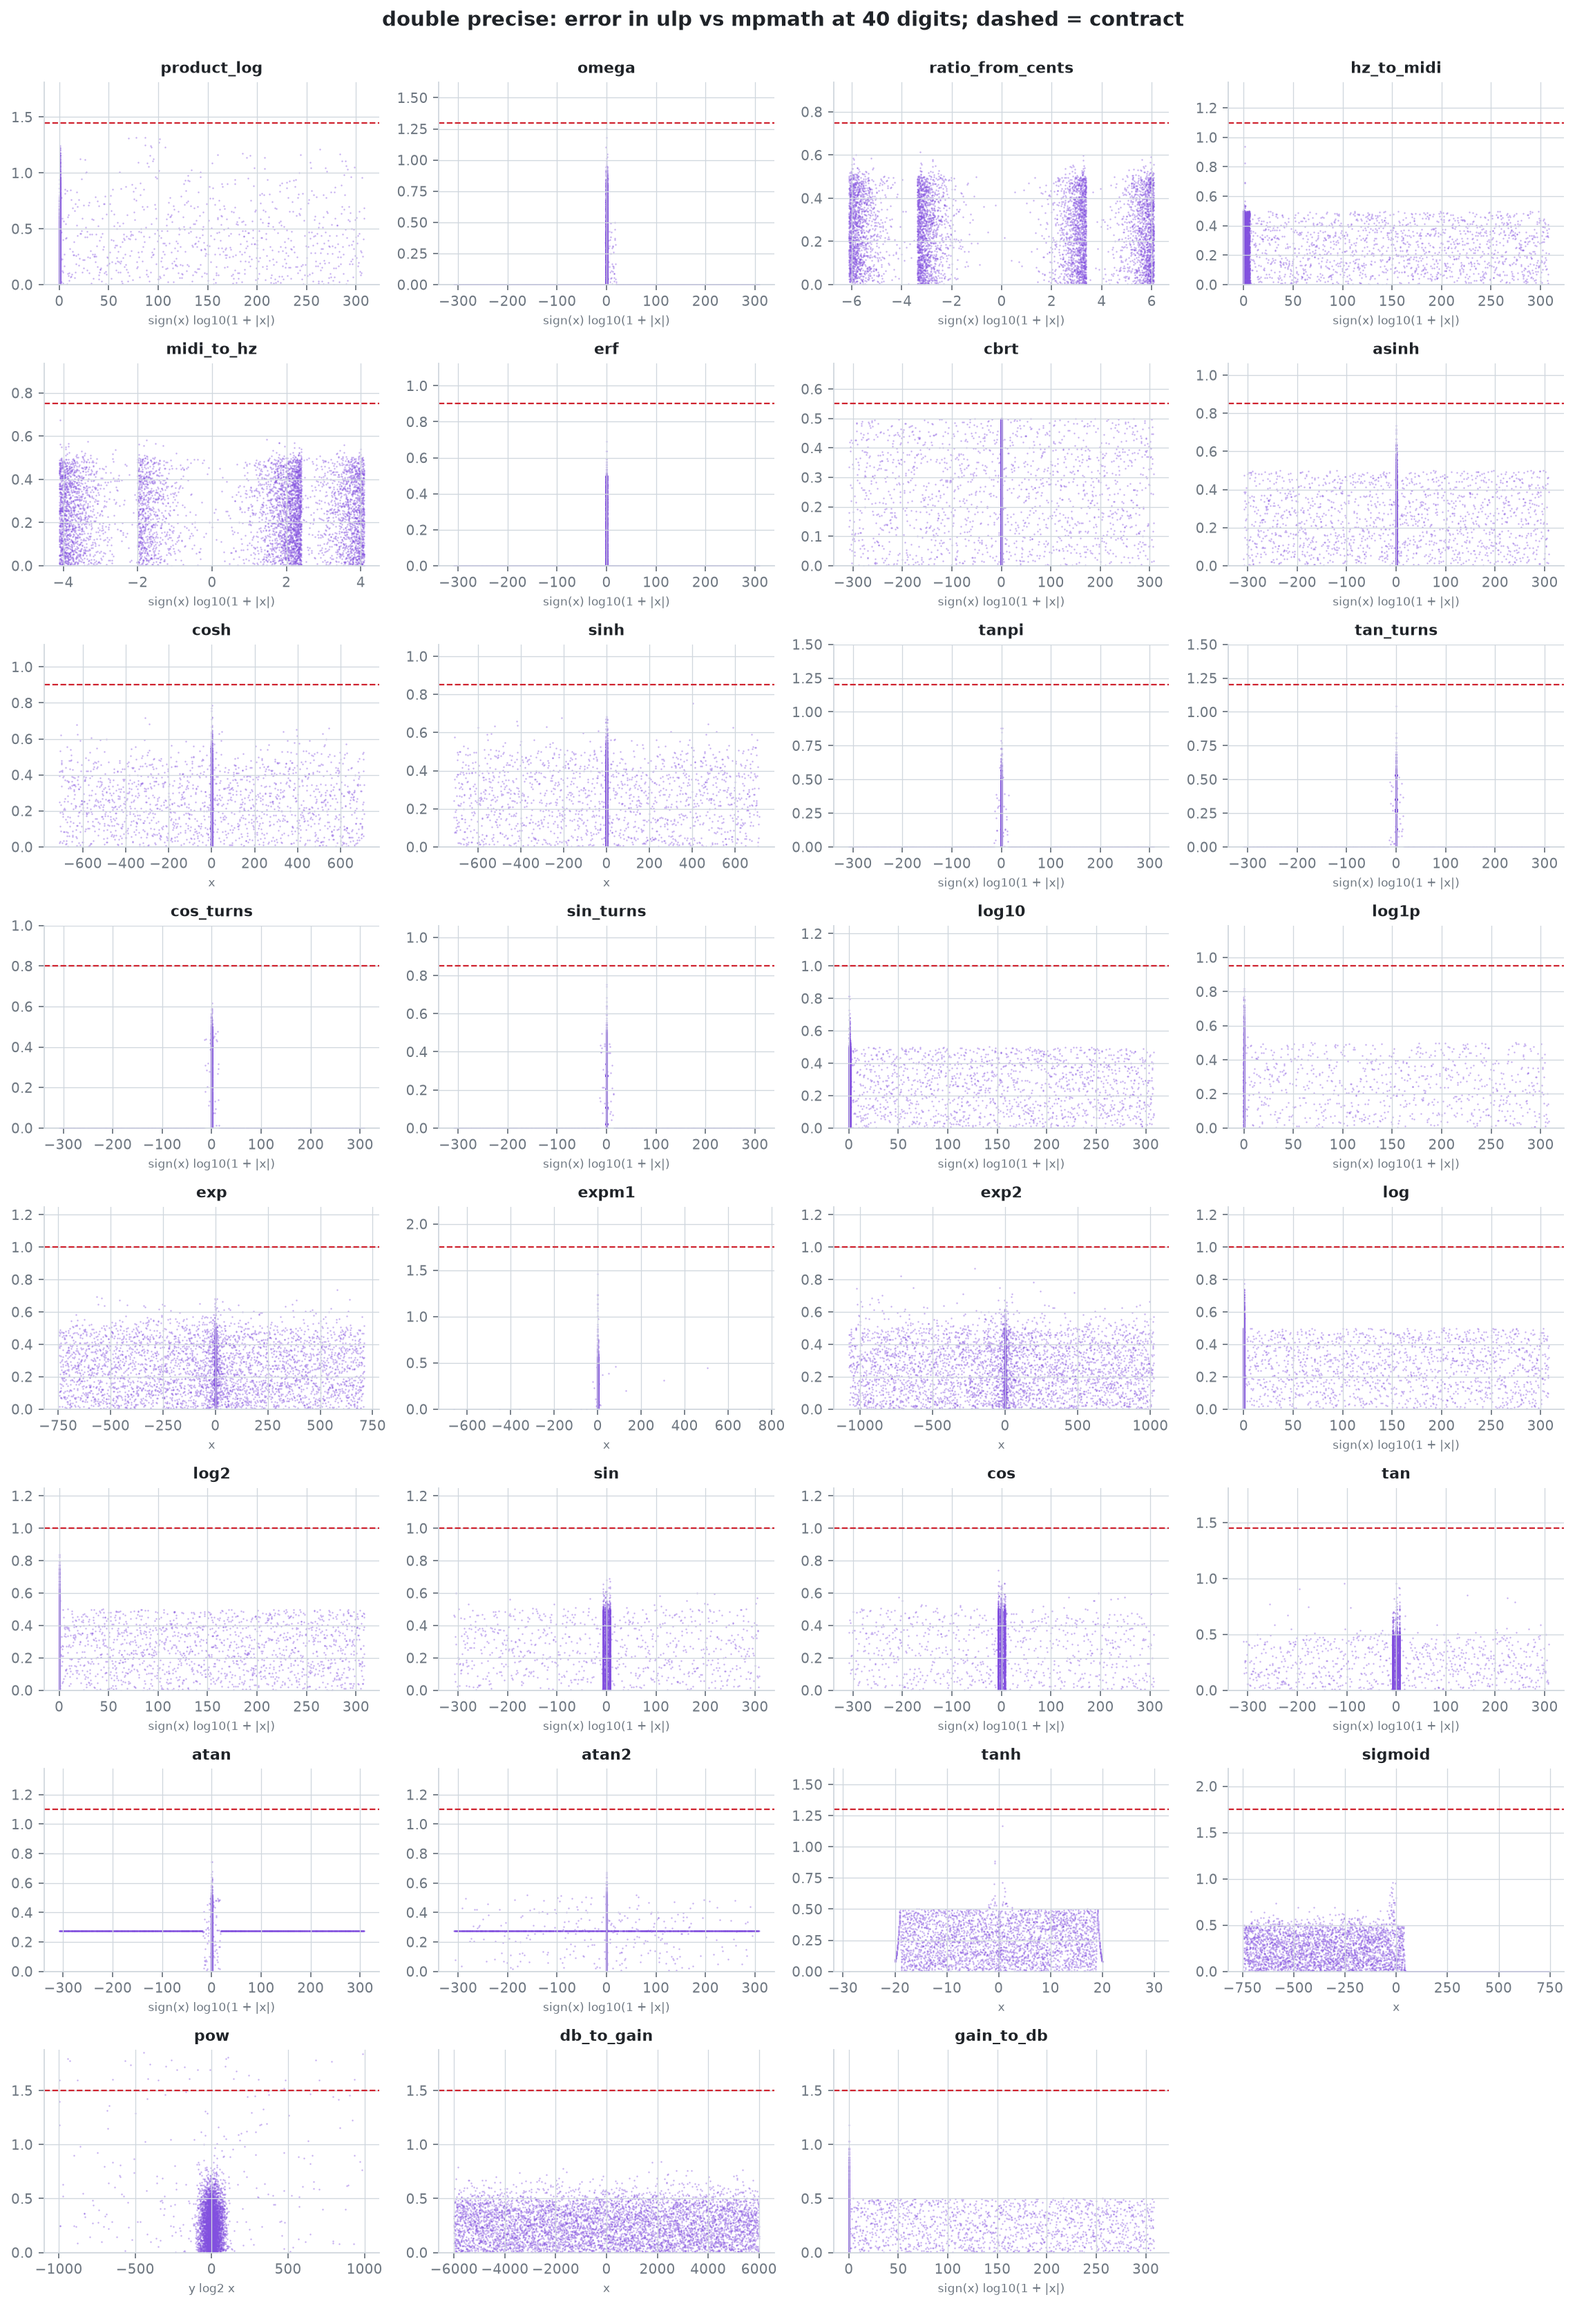
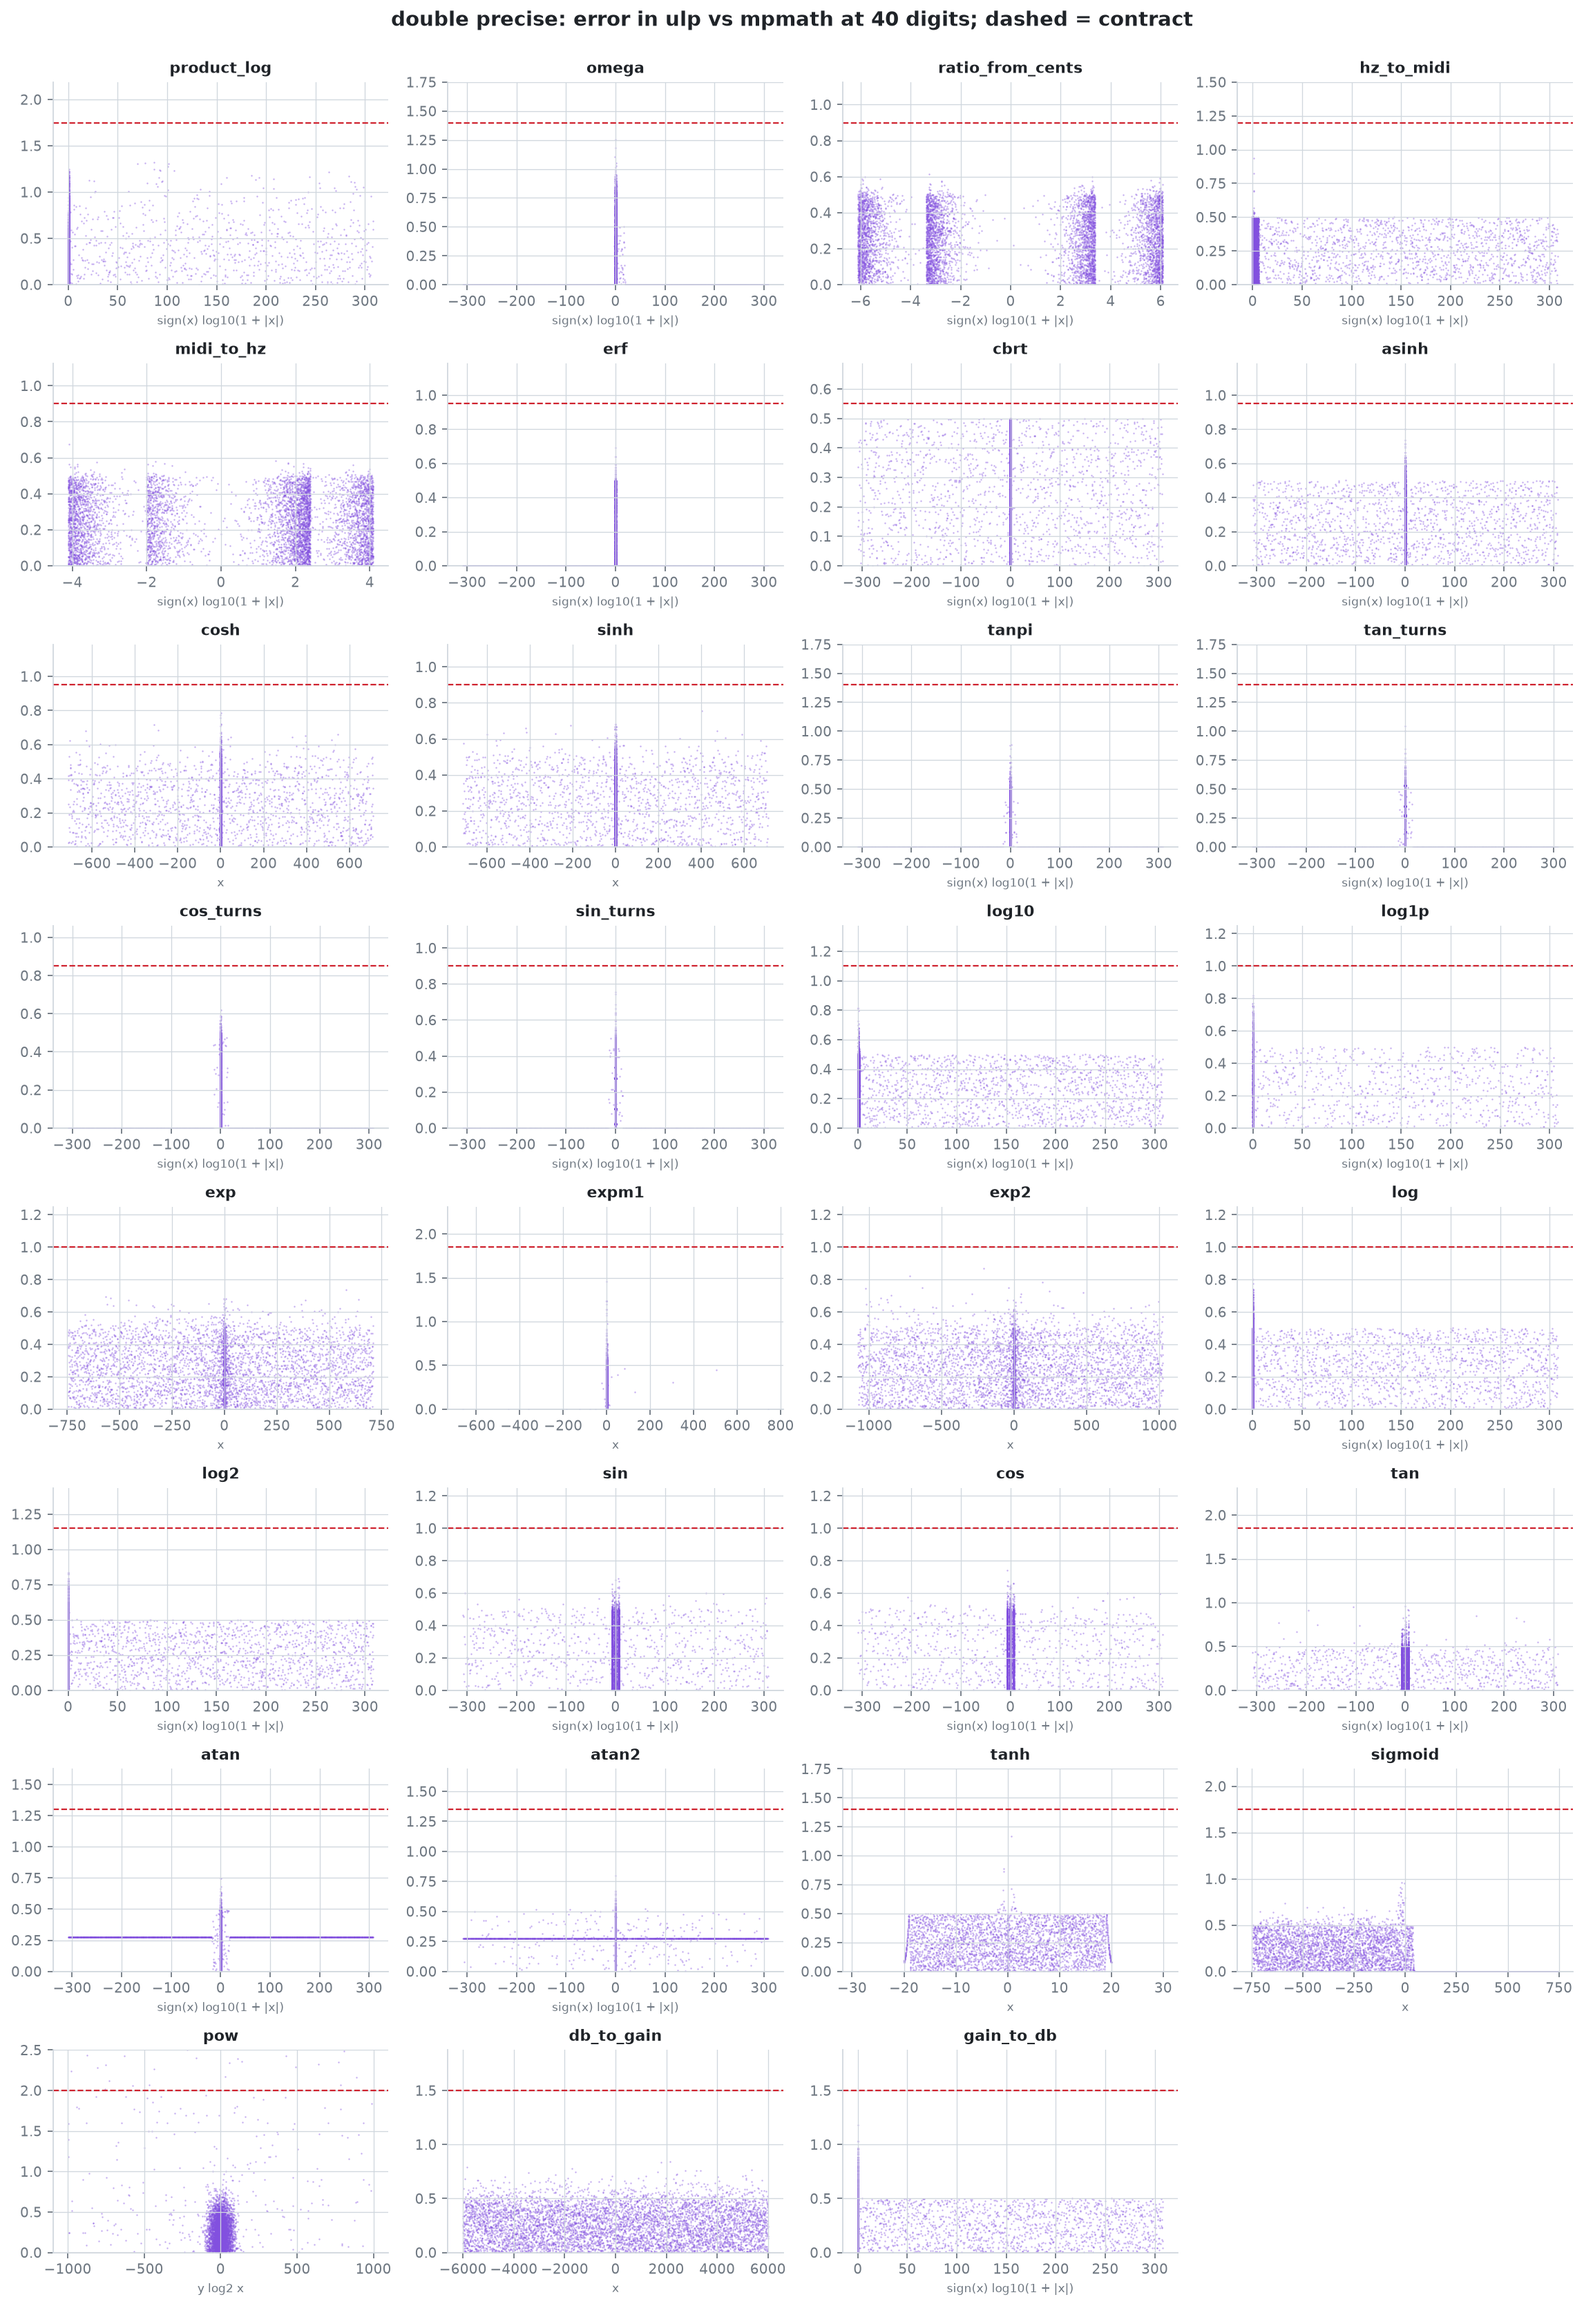
Set double contracts from a 4e8-sample quad-precision sweep

diff --git a/tools/oracle/oracle.py b/tools/oracle/oracle.py
@@ -124,8 +124,8 @@ UNARY = ["product_log", "omega", "ratio_from_cents", "hz_to_midi", "midi_to_hz",
 CONTRACTS = {
     "f32": {"product_log": 2.05, "omega": 1.65, "smoothing_coefficient": 2.0, "pole_from_cutoff": 2.0, "prewarp": 2.0, "ratio_from_cents": 0.85, "hz_to_midi": 1.25, "midi_to_hz": 1.4, "erf": 0.9, "cbrt": 0.55, "asinh": 0.9, "cosh": 0.9, "sinh": 0.85, "tanpi": 1.2, "tan_turns": 1.2, "cos_turns": 0.8, "sin_turns": 1.0, "log10": 1.4, "log1p": 1.0, "exp": 1.0, "expm1": 2.0, "exp2": 1.0, "log": 1.0, "log2": 1.5, "sin": 1.0, "cos": 1.0, "tan": 1.75, "atan": 1.0, "tanh": 1.35,
             "sigmoid": 2.0, "db_to_gain": 1.5, "gain_to_db": 1.5, "atan2": 1.0, "pow": 2.0},
-    "f64": {"product_log": 1.45, "omega": 1.3, "smoothing_coefficient": 2.0, "pole_from_cutoff": 2.0, "prewarp": 2.0, "ratio_from_cents": 0.75, "hz_to_midi": 1.1, "midi_to_hz": 0.75, "erf": 0.9, "cbrt": 0.55, "asinh": 0.85, "cosh": 0.9, "sinh": 0.85, "tanpi": 1.2, "tan_turns": 1.2, "cos_turns": 0.8, "sin_turns": 0.85, "log10": 1.0, "log1p": 0.95, "exp": 1.0, "expm1": 1.75, "exp2": 1.0, "log": 1.0, "log2": 1.0, "sin": 1.0, "cos": 1.0, "tan": 1.45, "atan": 1.1, "tanh": 1.3,
-            "sigmoid": 1.75, "db_to_gain": 1.5, "gain_to_db": 1.5, "atan2": 1.1, "pow": 1.5},
+    "f64": {"product_log": 1.75, "omega": 1.4, "smoothing_coefficient": 2.0, "pole_from_cutoff": 2.0, "prewarp": 2.0, "ratio_from_cents": 0.9, "hz_to_midi": 1.2, "midi_to_hz": 0.9, "erf": 0.95, "cbrt": 0.55, "asinh": 0.95, "cosh": 0.95, "sinh": 0.9, "tanpi": 1.4, "tan_turns": 1.4, "cos_turns": 0.85, "sin_turns": 0.9, "log10": 1.1, "log1p": 1.0, "exp": 1.0, "expm1": 1.85, "exp2": 1.0, "log": 1.0, "log2": 1.15, "sin": 1.0, "cos": 1.0, "tan": 1.85, "atan": 1.3, "tanh": 1.4,
+            "sigmoid": 1.75, "db_to_gain": 1.5, "gain_to_db": 1.5, "atan2": 1.35, "pow": 2.0},
     "fast": {name: 2.0 ** -16 for name in ["product_log", "omega", "tanpi", "tan_turns", "cos_turns", "sin_turns", "exp", "exp2", "log", "log2", "sin", "cos", "tan", "atan", "tanh", "sigmoid",
                                            "db_to_gain", "gain_to_db", "atan2", "pow"]},
 }

diff --git a/README.md b/README.md
@@ -55,27 +55,27 @@ target_link_libraries(your_target PRIVATE wray::wray)
 
 ## Accuracy contracts
 
-Measured maximum error in ulp. These are measured bounds, not proofs: one-argument `float` functions are checked on every input against a double-precision reference, and every function is sampled against 40-digit mpmath (50,000 points per function and tier in the published data). `double` and two-argument functions are only sampled.
+Measured maximum error in ulp. These are measured bounds, not proofs: one-argument `float` functions are checked on every input against a double-precision reference, and every function is sampled against 40-digit mpmath (50,000 points per function and tier in the published data). `double` and two-argument functions are only sampled; the `double` bounds come from 4×10^8 inputs per function against a quad-precision reference in both FMA classes, and a weekly run with a new seed checks them again.
 
 | function | float | double | function | float | double |
 |---|---|---|---|---|---|
 | exp | 1.0 | 1.0 | sin | 1.0 | 1.0 |
 | exp2 | 1.0 | 1.0 | cos | 1.0 | 1.0 |
-| expm1 | 2.0 | 1.75 | tan | 1.75 | 1.45 |
-| log | 1.0 | 1.0 | atan | 1.0 | 1.1 |
-| log2 | 1.5 | 1.0 | atan2 | 1.0 | 1.1 |
-| log10 | 1.4 | 1.0 | sin_turns | 1.0 | 0.85 |
-| log1p | 1.0 | 0.95 | cos_turns | 0.8 | 0.8 |
-| pow | 2.0 | 1.5 | tanpi | 1.2 | 1.2 |
-| cbrt | 0.55 | 0.55 | sinh | 0.85 | 0.85 |
-| erf | 0.9 | 0.9 | cosh | 0.9 | 0.9 |
-| sigmoid | 2.0 | 1.75 | tanh | 1.35 | 1.3 |
-| db_to_gain | 1.5 | 1.5 | asinh | 0.9 | 0.85 |
-| gain_to_db | 1.5 | 1.5 | omega | 1.65 | 1.3 |
-| midi_to_hz | 1.4 | 0.75 | product_log | 2.05 | 1.45 |
-| hz_to_midi | 1.25 | 1.1 | smoothing_coefficient | 2.0 | 2.0 |
-| ratio_from_cents | 0.85 | 0.75 | pole_from_cutoff | 2.0 | 2.0 |
-| prewarp | 2.0 | 2.0 | tan_turns | 1.2 | 1.2 |
+| expm1 | 2.0 | 1.85 | tan | 1.75 | 1.85 |
+| log | 1.0 | 1.0 | atan | 1.0 | 1.3 |
+| log2 | 1.5 | 1.15 | atan2 | 1.0 | 1.35 |
+| log10 | 1.4 | 1.1 | sin_turns | 1.0 | 0.9 |
+| log1p | 1.0 | 1.0 | cos_turns | 0.8 | 0.85 |
+| pow | 2.0 | 2.0 | tanpi | 1.2 | 1.4 |
+| cbrt | 0.55 | 0.55 | sinh | 0.85 | 0.9 |
+| erf | 0.9 | 0.95 | cosh | 0.9 | 0.95 |
+| sigmoid | 2.0 | 1.75 | tanh | 1.35 | 1.4 |
+| db_to_gain | 1.5 | 1.5 | asinh | 0.9 | 0.95 |
+| gain_to_db | 1.5 | 1.5 | omega | 1.65 | 1.4 |
+| midi_to_hz | 1.4 | 0.9 | product_log | 2.05 | 1.75 |
+| hz_to_midi | 1.25 | 1.2 | smoothing_coefficient | 2.0 | 2.0 |
+| ratio_from_cents | 0.85 | 0.9 | pole_from_cutoff | 2.0 | 2.0 |
+| prewarp | 2.0 | 2.0 | tan_turns | 1.2 | 1.4 |
 
 `pow` meets its bound while |y·log₂|x|| ≤ 4; past that the bound scales with the product, to contract × |y·log₂|x|| / 4 ulp, because the error of log₂|x| is multiplied by y. Negative bases follow C: integer exponents give the signed power and other exponents give NaN. The fast tier's 2^-16 bound for `pow` is likewise relative to 1 + |y·log₂|x||.
 
